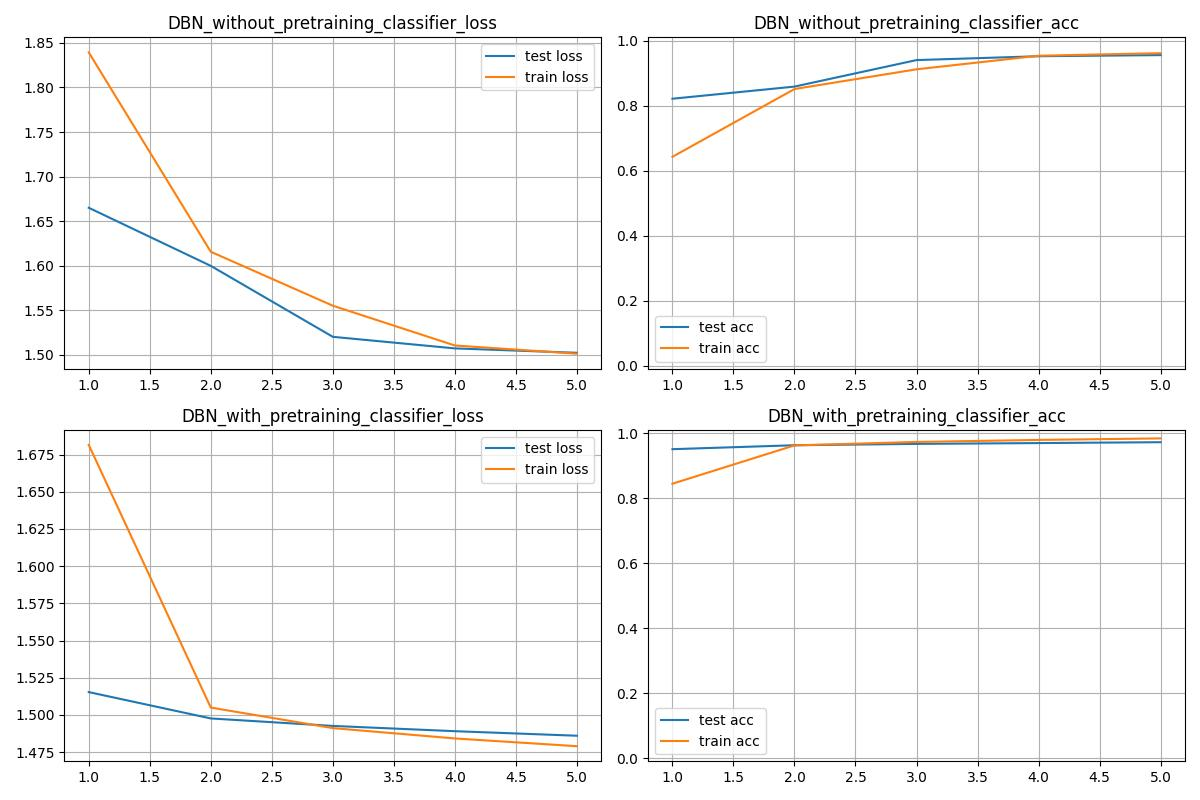
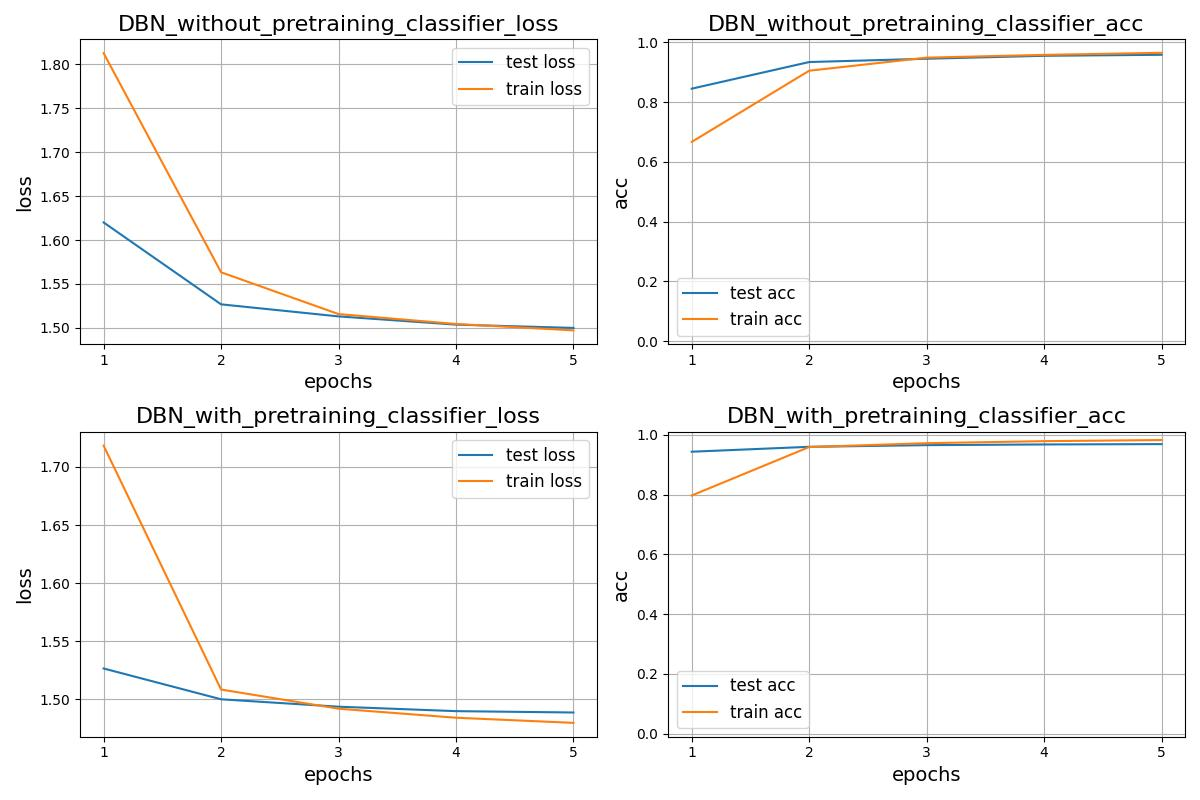
added axes labels to acc and loss figures.

diff --git a/DBN.py b/DBN.py
@@ -61,7 +61,7 @@ class DBN:
             self.layer_parameters[index]['W'] = rbm.W.cpu()
             self.layer_parameters[index]['hb'] = rbm.hb.cpu()
             self.layer_parameters[index]['vb'] = rbm.vb.cpu()
-            print('Finished Training Layer:', index, 'to', index+1)
+            print('Finished Training Layer: %d to %d' % (index, index+1))
 
         if self.savefile is not None:
             torch.save(self.layer_parameters, self.savefile)
@@ -97,7 +97,7 @@ class DBN:
         return y_dash, x_dash
 
     def net(self):
-        print('The Last layer will not be activated. The rest are activated using the Sigmoid Function')
+        print('Layers are activated using the Sigmoid Function except for the last layer.')
         modules = []
         for index, layer in enumerate(self.layer_parameters):
             modules.append(torch.nn.Linear(layer['W'].shape[1], layer['W'].shape[0]))

diff --git a/draw_graphs.py b/draw_graphs.py
@@ -13,9 +13,12 @@ def plot(filenames):
 
             plt.subplot(2, 2, index)
             for col in cols:
-                plt.plot(np.array(range(1, df.shape[0]+1)), df[col], label=col)
-            plt.legend()
-            plt.title('%s_%s' % (filename[8:-4], metrics))
+                plt.plot(range(1, df.shape[0]+1), df[col], label=col)
+            plt.legend(fontsize=12)
+            plt.xticks(range(1, df.shape[0]+1))
+            plt.xlabel('epochs', fontsize=14)
+            plt.ylabel(metrics, fontsize=14)
+            plt.title('%s_%s' % (filename[8:-4], metrics), fontsize=16)
             plt.grid(True)
 
             if metrics == 'acc':
